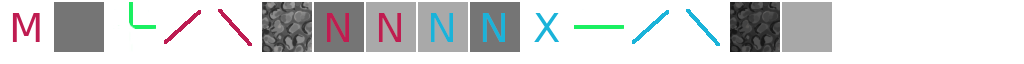
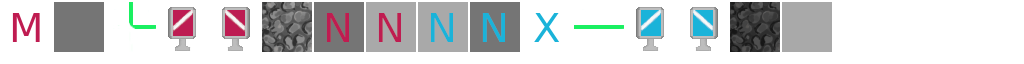
Moved laserHandler and created Visitor interface

Changed region(s): [[0.5938, 0.0938, 0.7188, 0.8125], [0.1562, 0.0938, 0.25, 0.8125]]

diff --git a/core/src/com/bksgames/game/views/gameScreen/EndTheTurnStage.java b/core/src/com/bksgames/game/views/gameScreen/EndTheTurnStage.java
@@ -1,7 +1,6 @@
 package com.bksgames.game.views.gameScreen;
 
 import com.badlogic.gdx.Gdx;
-import com.badlogic.gdx.graphics.OrthographicCamera;
 import com.badlogic.gdx.graphics.g2d.BitmapFont;
 import com.badlogic.gdx.graphics.g2d.TextureAtlas;
 import com.badlogic.gdx.scenes.scene2d.InputEvent;
@@ -11,7 +10,6 @@ import com.badlogic.gdx.scenes.scene2d.ui.Skin;
 import com.badlogic.gdx.scenes.scene2d.ui.Table;
 import com.badlogic.gdx.scenes.scene2d.ui.TextButton;
 import com.badlogic.gdx.scenes.scene2d.utils.ClickListener;
-import com.badlogic.gdx.utils.viewport.ScreenViewport;
 import com.badlogic.gdx.utils.viewport.Viewport;
 import com.bksgames.game.LostInTheMaze;
 import com.bksgames.game.services.PlayerService;
@@ -26,10 +24,7 @@ public class EndTheTurnStage extends Stage {
 	final LostInTheMaze game;
 
 	public EndTheTurnStage(TextureAtlas atlas, LostInTheMaze game, Viewport viewport, PlayerService playerService) {
-		//---------------------------------------------------------------------------------------
 		super(viewport);
-//		super.getViewport().setCamera(camera);
-		//---------------------------------------------------------------------------------------
 
 		this.game = game;
 		skin = new Skin(atlas);
@@ -38,7 +33,6 @@ public class EndTheTurnStage extends Stage {
 		table.setBounds(0, 0, Gdx.graphics.getWidth(), Gdx.graphics.getHeight());
 		this.addActor(table);
 
-		//---------------------------------------------------------------------------------------
 		TextButton.TextButtonStyle textButtonStyle = new TextButton.TextButtonStyle();
 		textButtonStyle.font = new BitmapFont();
 		textButtonStyle.up = skin.getDrawable("buttonBackground");
@@ -50,8 +44,6 @@ public class EndTheTurnStage extends Stage {
 		table.add().expand();
 		table.add(endTheTurnButton).top().padTop(20);
 		table.add().expand();
-
-		//---------------------------------------------------------------------------------------
 
 		endTheTurnButton.addListener(new ClickListener() {
 			@Override

diff --git a/core/src/com/bksgames/game/core/main/SimpleGameManager.java b/core/src/com/bksgames/game/core/main/SimpleGameManager.java
@@ -15,7 +15,6 @@ import com.bksgames.game.core.updates.SimpleTileUpdate;
 import com.bksgames.game.core.utils.Parameters;
 import com.bksgames.game.core.utils.Point;
 import com.bksgames.game.services.GameService;
-import com.bksgames.game.viewmodels.PlayerViewModel;
 
 import java.util.*;
 
@@ -33,21 +32,7 @@ public class SimpleGameManager implements GameManager {
     private final GameService gameService;
     private final Parameters parameters;
     private PlayerColor activePlayer;
-    private Iterator<PlayerColor> nextPlayer = new Iterator<PlayerColor>() {
-        private boolean isBlue = true;
-
-        @Override
-        public boolean hasNext() {
-            return true;
-        }
-
-        @Override
-        public PlayerColor next() {
-            var answer = isBlue ? PlayerColor.RED : PlayerColor.BLUE;
-            isBlue = !isBlue;
-            return answer;
-        }
-    };
+    private Iterator<PlayerColor> nextPlayer;
     private final DamageManager damageManager;
     private final VisionManager visionManager;
 
@@ -157,9 +142,9 @@ public class SimpleGameManager implements GameManager {
         players = new EnumMap<>(PlayerColor.class);
 
         players.put(PlayerColor.BLUE,
-                new Player(board.getNexus(PlayerColor.BLUE).get(0).getPosition()));
+                new Player(board.getNexus(PlayerColor.BLUE).getFirst().getPosition()));
         players.put(PlayerColor.RED,
-                new Player(board.getNexus(PlayerColor.RED).get(0).getPosition()));
+                new Player(board.getNexus(PlayerColor.RED).getFirst().getPosition()));
         nextPlayer = players.keySet().iterator();
         activePlayer = PlayerColor.BLUE;
 

diff --git a/core/src/com/bksgames/game/views/gameScreen/GameScreen.java b/core/src/com/bksgames/game/views/gameScreen/GameScreen.java
@@ -14,8 +14,8 @@ import com.bksgames.game.services.PlayerService;
 import com.bksgames.game.viewmodels.PlayerViewModel;
 import com.bksgames.game.viewmodels.SimpleViewModel;
 import com.bksgames.game.views.updates.UpdateProcessor;
-import com.bksgames.game.views.gameScreen.laserHandling.ViewLaserHandler;
-import com.bksgames.game.views.gameScreen.laserHandling.SimpleLaserHandler;
+import com.bksgames.game.viewmodels.laserHandling.ViewLaserHandler;
+import com.bksgames.game.viewmodels.laserHandling.SimpleLaserHandler;
 import com.bksgames.game.views.gameScreen.legalMovesHandling.LegalMoves;
 
 public class GameScreen extends ScreenAdapter {

diff --git a/core/src/com/bksgames/game/common/updates/UpdateVisitor.java b/core/src/com/bksgames/game/common/updates/UpdateVisitor.java
@@ -1,0 +1,11 @@
+package com.bksgames.game.common.updates;
+
+public interface UpdateVisitor {
+    default void visit(Update update) {throw new IllegalStateException("this update doesnt implement any specific update kind");}
+
+    void visit(EntityStateUpdate entityStateUpdate);
+    void visit(EntityUpdate entityUpdate);
+    void visit(LaserUpdate laserUpdate);
+    void visit(SwordUpdate swordUpdate);
+    void visit(TileUpdate tileUpdate);
+}

diff --git a/core/src/com/bksgames/game/viewmodels/SimpleViewModel.java b/core/src/com/bksgames/game/viewmodels/SimpleViewModel.java
@@ -2,7 +2,7 @@ package com.bksgames.game.viewmodels;
 
 import com.bksgames.game.core.utils.Point;
 import com.bksgames.game.common.utils.Direction;
-import com.bksgames.game.views.gameScreen.laserHandling.ViewLaserHandler;
+import com.bksgames.game.viewmodels.laserHandling.ViewLaserHandler;
 
 import java.util.*;
 import java.util.List;

diff --git a/core/src/com/bksgames/game/common/updates/Update.java b/core/src/com/bksgames/game/common/updates/Update.java
@@ -3,6 +3,7 @@ package com.bksgames.game.common.updates;
 public interface Update {
     UpdateIDs getID();
 
+    default void visit(UpdateVisitor updateVisitor) {updateVisitor.visit(this);}
 //    pass relative coordinates
     int getRelativeX();
     int getRelativeY();

diff --git a/core/src/com/bksgames/game/viewmodels/laserHandling/SimpleLaserHandler.java b/core/src/com/bksgames/game/viewmodels/laserHandling/SimpleLaserHandler.java
@@ -1,4 +1,4 @@
-package com.bksgames.game.views.gameScreen.laserHandling;
+package com.bksgames.game.viewmodels.laserHandling;
 
 import com.badlogic.gdx.maps.tiled.TiledMapTileLayer;
 import com.bksgames.game.core.utils.Point;

diff --git a/core/src/com/bksgames/game/viewmodels/laserHandling/ViewLaserHandler.java b/core/src/com/bksgames/game/viewmodels/laserHandling/ViewLaserHandler.java
@@ -1,4 +1,4 @@
-package com.bksgames.game.views.gameScreen.laserHandling;
+package com.bksgames.game.viewmodels.laserHandling;
 
 import com.bksgames.game.core.utils.Point;
 
